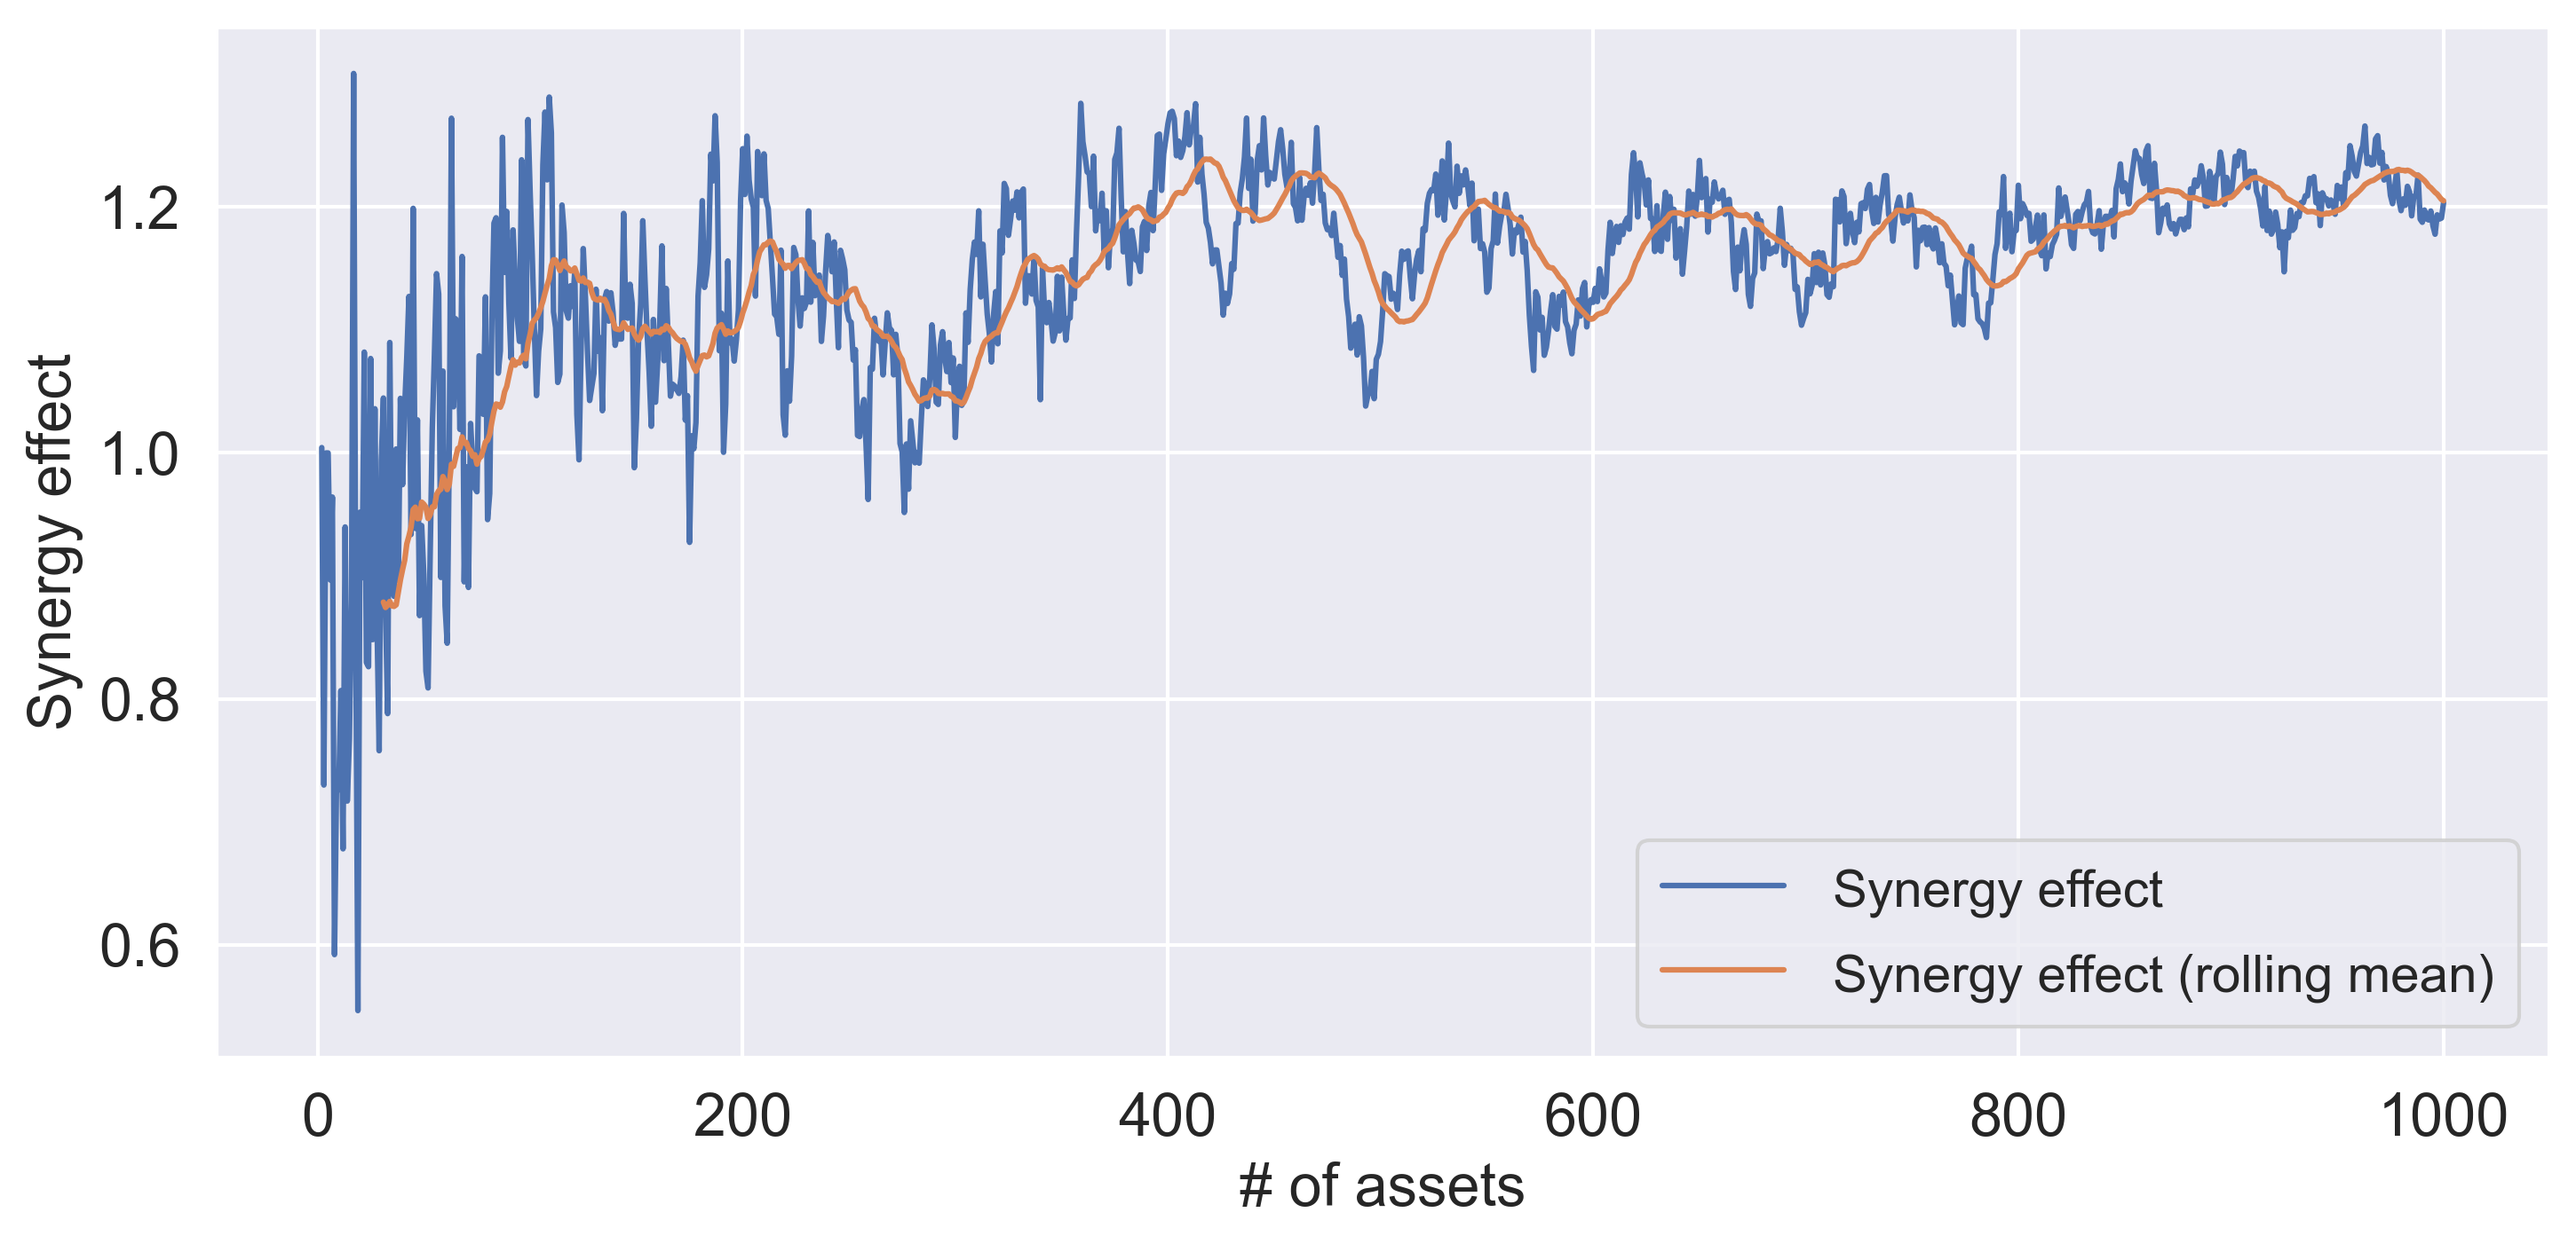
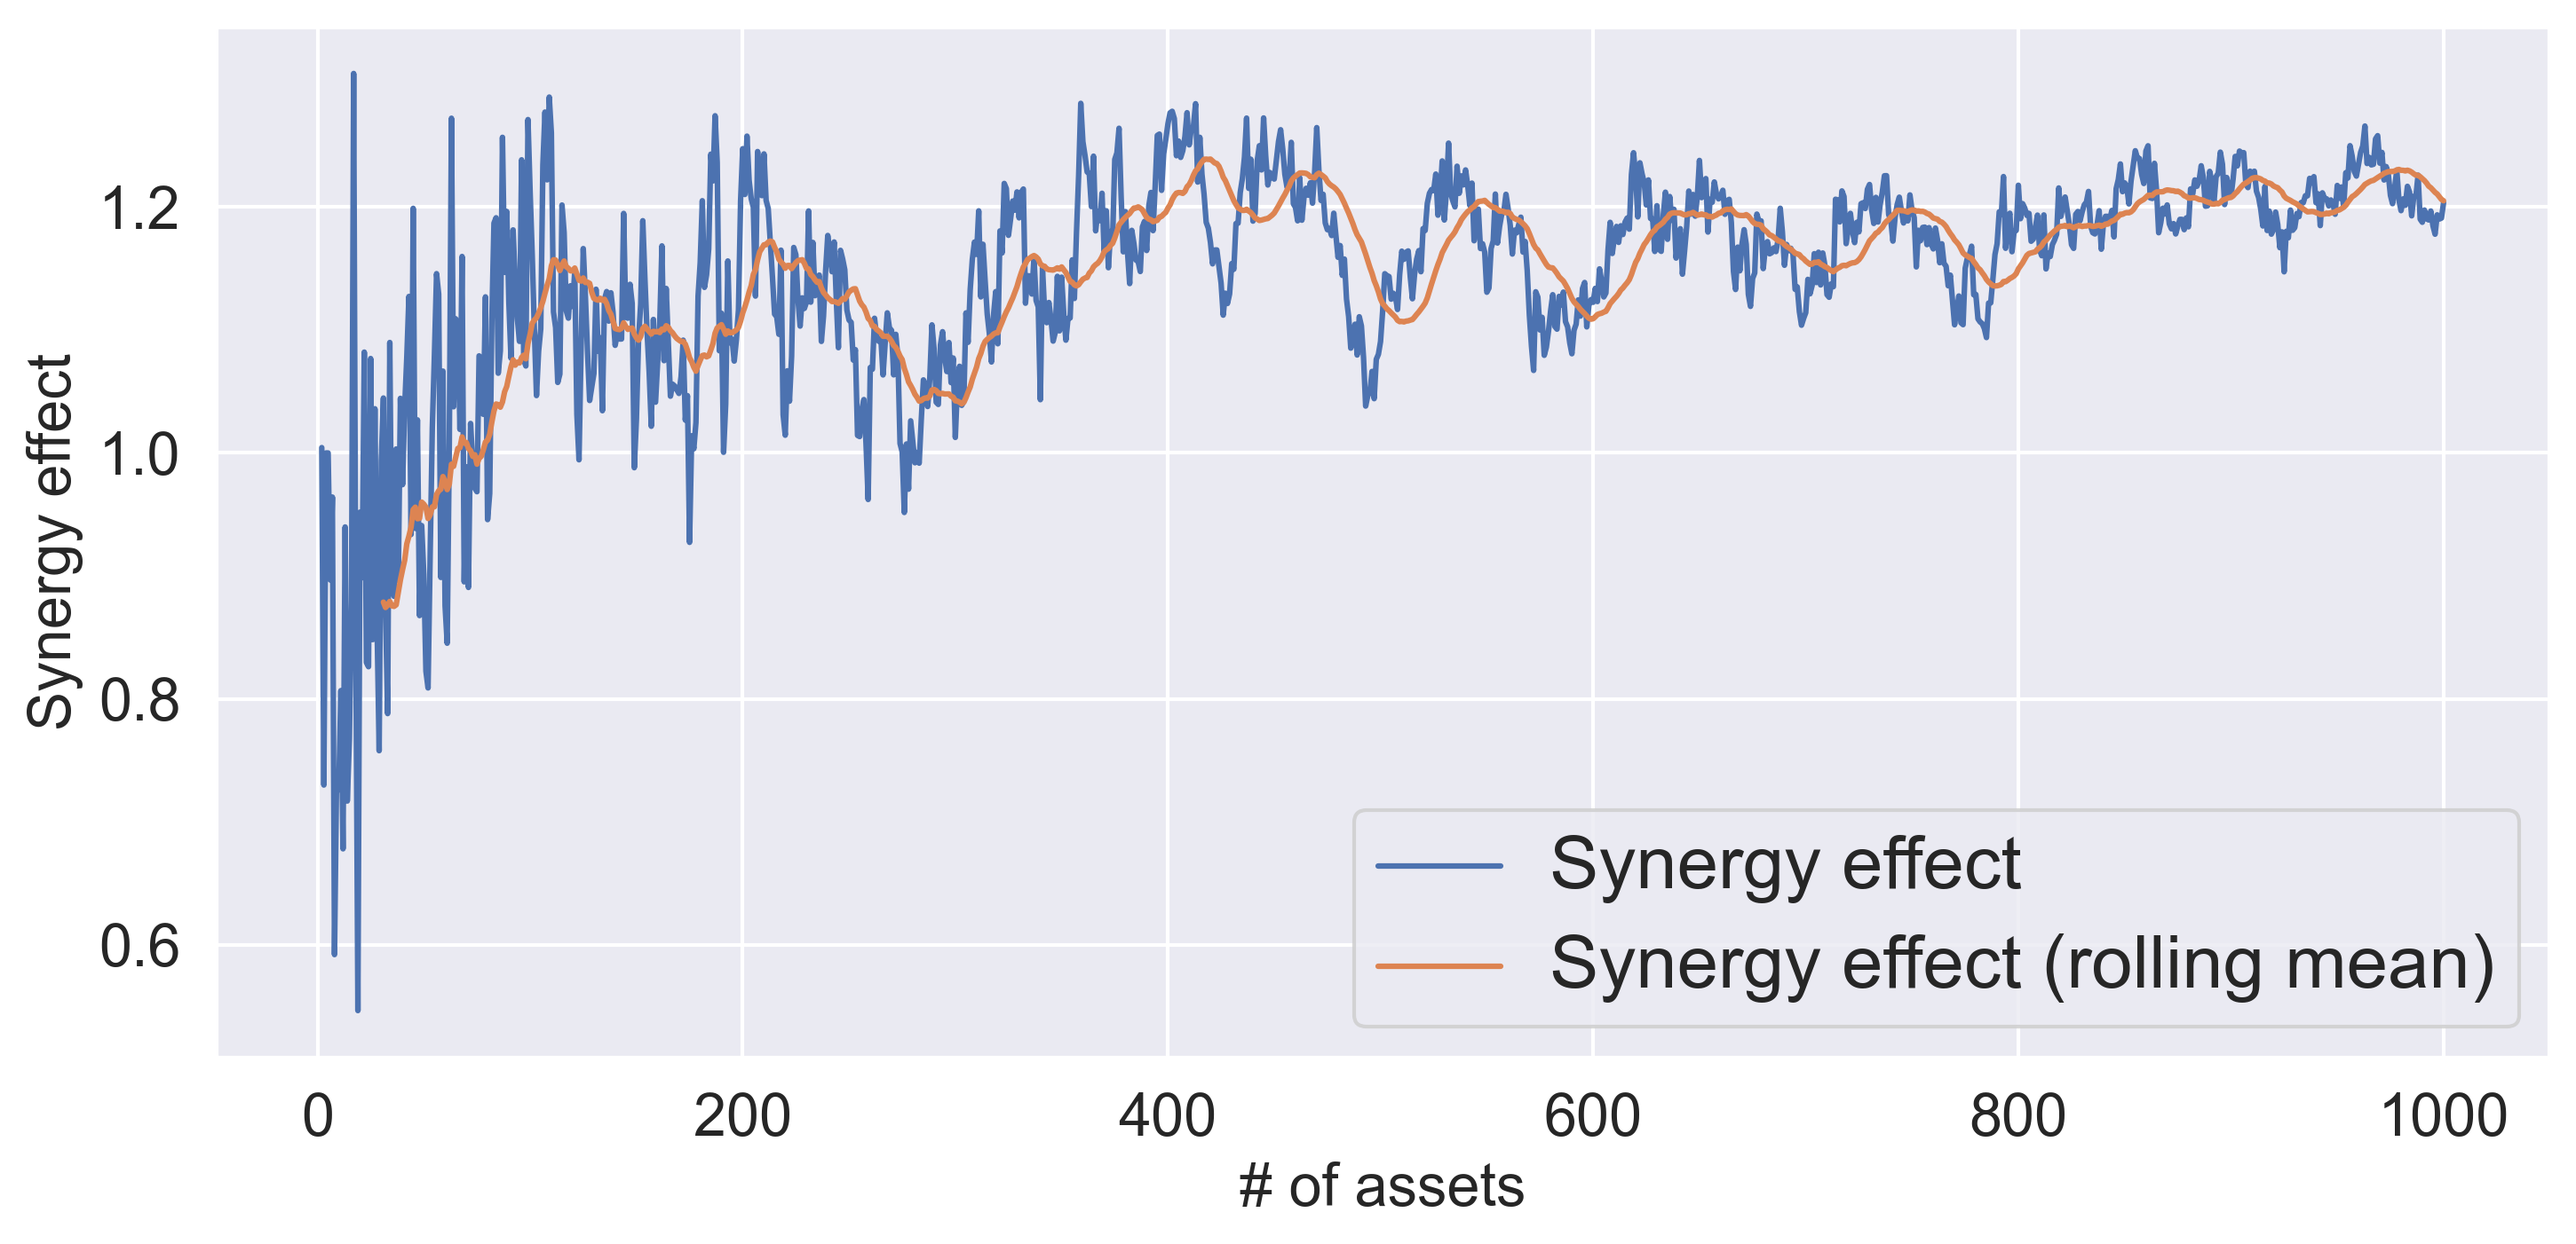
Figures for phd defence

Changed region(s): [[0.5274, 0.6441, 0.9617, 0.8281]]

diff --git a/src/rebound.py b/src/rebound.py
@@ -242,7 +242,8 @@ ax.set_xlabel("# of assets")
 ax.set_ylabel("Synergy effect")
 ax.legend()
 
-_set_font_size(ax, 16, 14)
+# _set_font_size(ax, 16, 14)
+_set_font_size(ax, 16, 20)
 plt.tight_layout()
 
 plt.savefig("tex/figures/synergy_effect_rebound_1.png", bbox_inches="tight", dpi=300)
